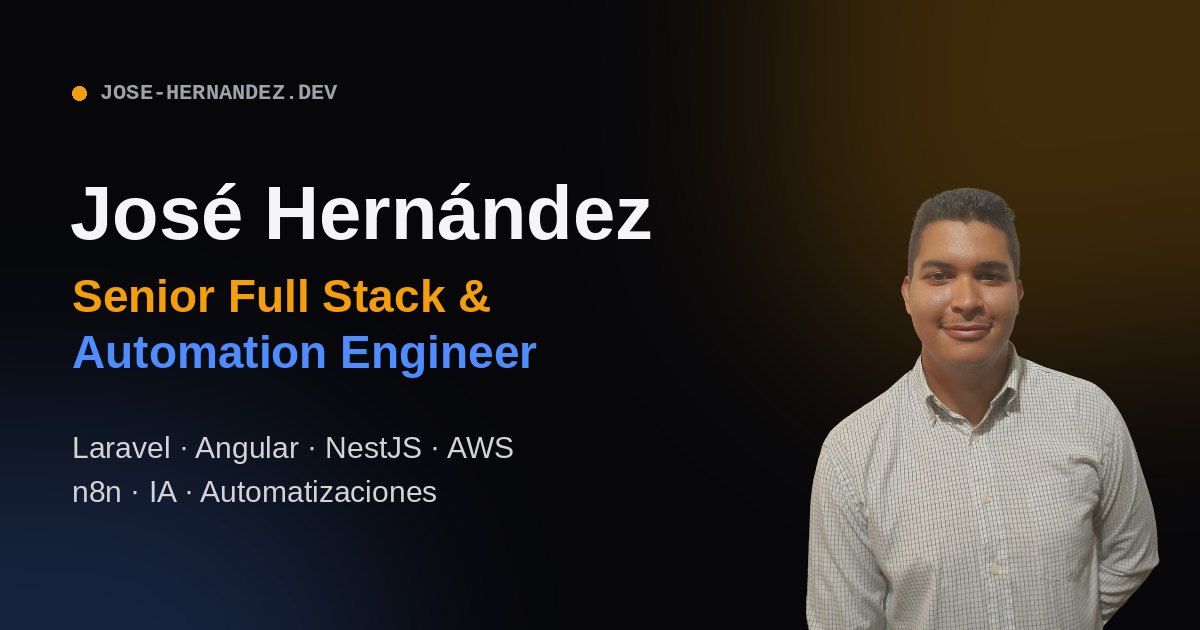
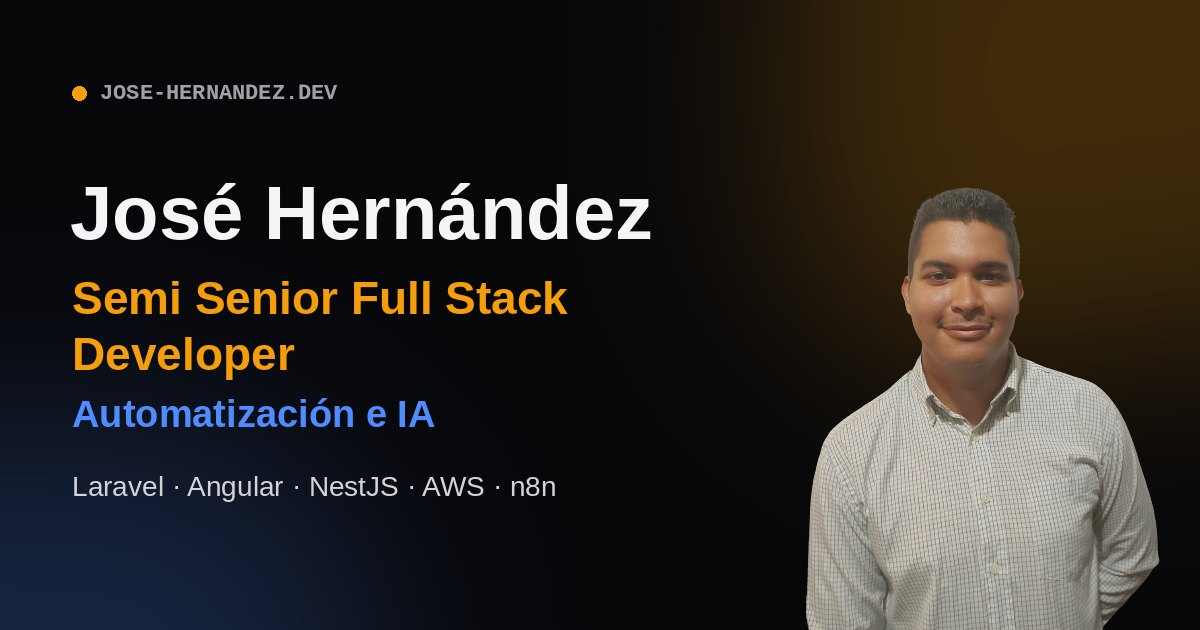
Align with the new CV: Semi Senior title, QSM ended August 2026, hide Leadbox
- Job title, meta, OG image and JSON-LD use 'Semi Senior Full Stack Developer'
- QSM role renamed to Full Stack Developer & Head of Automation, past tense, ends Aug 2026
- Leadbox experience hidden for now (copy kept in locales)

Changed region(s): [[0.0617, 0.4222, 0.4933, 0.6032], [0.0617, 0.6333, 0.4625, 0.8143]]

diff --git a/index.html b/index.html
@@ -9,10 +9,10 @@
     <script>document.documentElement.classList.add("js")</script>
 
     <!-- Primary -->
-    <title>José Hernández · Senior Full Stack & Automation Engineer</title>
+    <title>José Hernández · Semi Senior Full Stack Developer | Automatización e IA</title>
     <meta
       name="description"
-      content="Senior Full Stack & Automation Engineer con +5 años en Laravel, Angular, NestJS y AWS. Automatizaciones con n8n e IA, sistemas legacy y plataformas en producción."
+      content="Full Stack Developer con +5 años que une desarrollo web y automatización con IA: n8n, Laravel, Angular, NestJS y AWS. Creador de Mi Doctor PR, usado por ~80 médicos."
     />
     <meta
       name="keywords"
@@ -32,7 +32,7 @@
     <!-- Open Graph -->
     <meta property="og:type" content="profile" />
     <meta property="og:site_name" content="José Hernández" />
-    <meta property="og:title" content="José Hernández · Senior Full Stack & Automation Engineer" />
+    <meta property="og:title" content="José Hernández · Semi Senior Full Stack Developer | Automatización e IA" />
     <meta
       property="og:description"
       content="Laravel, Angular, NestJS y AWS. Automatizaciones con n8n e IA, sistemas legacy y plataformas en producción."
@@ -41,7 +41,7 @@
     <meta property="og:image" content="https://jose-hernandez.dev/images/og-image.jpg" />
     <meta property="og:image:width" content="1200" />
     <meta property="og:image:height" content="630" />
-    <meta property="og:image:alt" content="José Hernández, Senior Full Stack & Automation Engineer" />
+    <meta property="og:image:alt" content="José Hernández, Semi Senior Full Stack Developer | Automatización e IA" />
     <meta property="og:locale" content="es_ES" />
     <meta property="og:locale:alternate" content="en_US" />
     <meta property="profile:first_name" content="José" />
@@ -49,7 +49,7 @@
 
     <!-- Twitter -->
     <meta name="twitter:card" content="summary_large_image" />
-    <meta name="twitter:title" content="José Hernández · Senior Full Stack & Automation Engineer" />
+    <meta name="twitter:title" content="José Hernández · Semi Senior Full Stack Developer | Automatización e IA" />
     <meta
       name="twitter:description"
       content="Laravel, Angular, NestJS y AWS. Automatizaciones con n8n e IA, sistemas legacy y plataformas en producción."
@@ -105,12 +105,8 @@
             "url": "https://jose-hernandez.dev/",
             "image": "https://jose-hernandez.dev/images/jose.jpg",
             "email": "mailto:devjh19@gmail.com",
-            "jobTitle": "Senior Full Stack & Automation Engineer",
-            "description": "Full Stack Developer con más de 5 años de experiencia en Laravel, Angular, NestJS y AWS. Lidera automatizaciones con n8n e IA y optimiza sistemas legacy.",
-            "worksFor": [
-              { "@type": "Organization", "name": "Leadbox", "url": "https://leadboxhq.com/" },
-              { "@type": "Organization", "name": "QSM (Quantum Spot Media)" }
-            ],
+            "jobTitle": "Semi Senior Full Stack Developer",
+            "description": "Full Stack Developer con más de 5 años de experiencia que une desarrollo web y automatización con IA. Lideró la automatización en QSM con más de 15 workflows en n8n y desarrolló Mi Doctor PR, usado por unos 80 médicos.",
             "alumniOf": {
               "@type": "CollegeOrUniversity",
               "name": "Universidad Politécnica Territorial de los Llanos Juana Ramírez"

diff --git a/src/data/content.js b/src/data/content.js
@@ -41,7 +41,8 @@ export const STACK_GROUPS = [
   { key: "stack_group_cloud", items: ["AWS EC2", "S3", "Lambda", "RDS", "VPC"] },
 ];
 
-export const EXPERIENCES = [5, 4, 0, 1, 2, 3].map((n) => ({
+// Leadbox (exp5) is hidden for now; its copy stays in the locales.
+export const EXPERIENCES = [4, 0, 1, 2, 3].map((n) => ({
   id: `exp${n}`,
   date: `date_exp${n}`,
   title: `title_exp${n}`,
